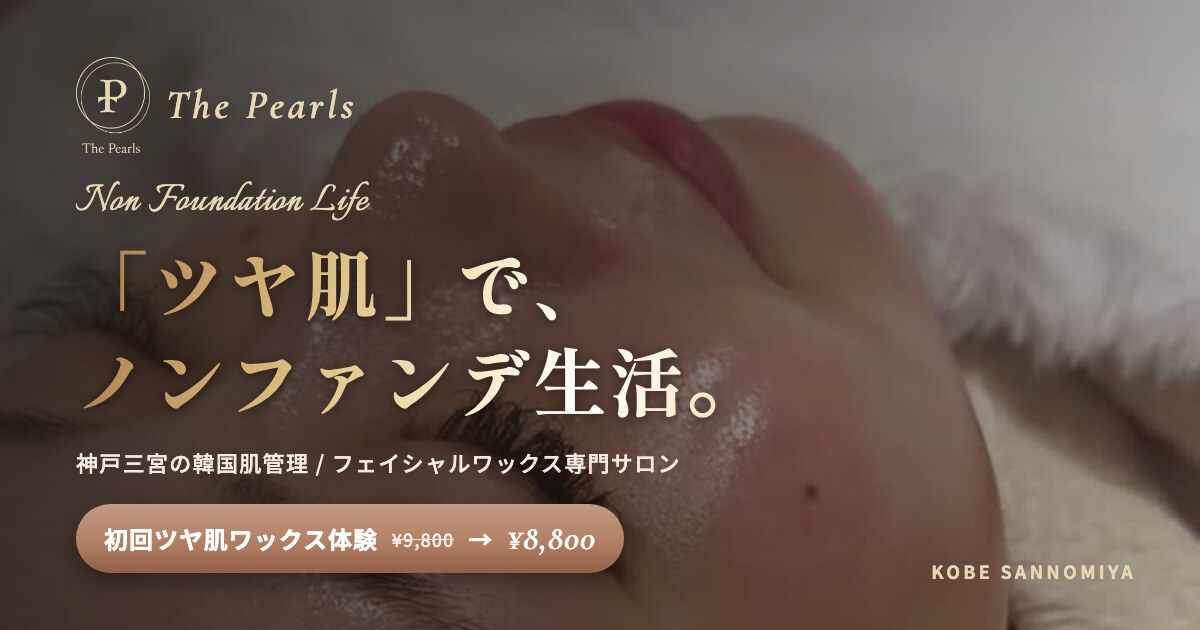
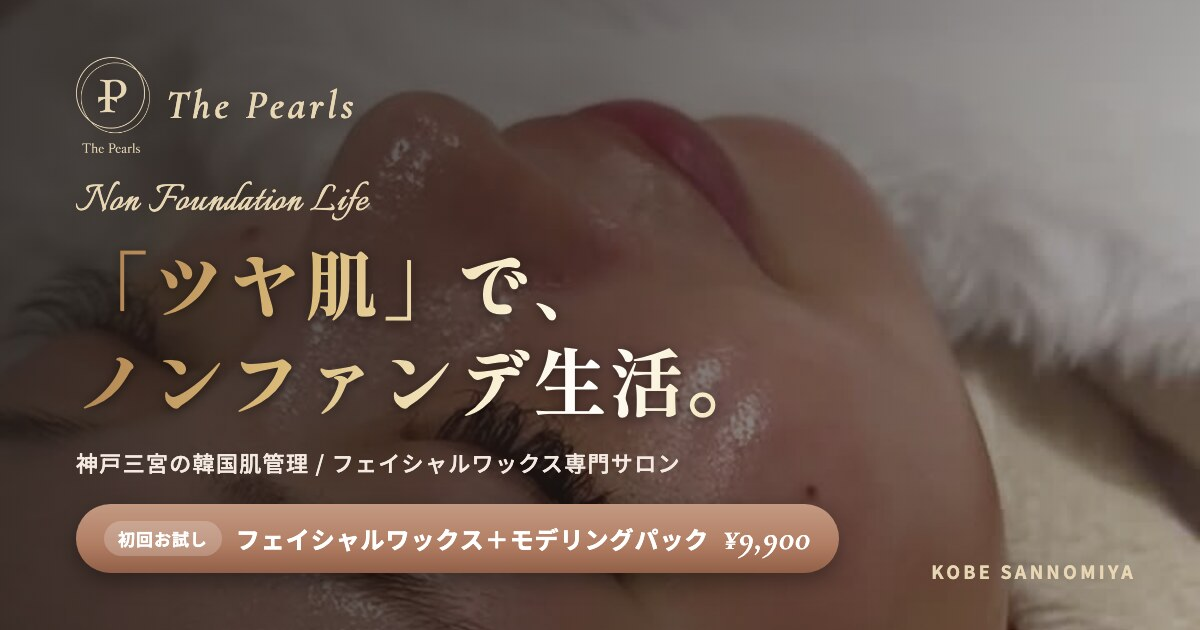
オファーをモデリングパック¥9,900化・専門/徒歩をtopbarへ・実口コミ+実写顔・正方形バナー
- ヒーローのカテゴリーカード削除、上部バナー(topbar)に「韓国肌管理／フェイシャルワックス専門・三ノ宮駅徒歩5分・女性専用」を集約
- ヒーロー/料金/ドック/クロージング/メタのオファーを HotPepper実クーポン「フェイシャルワックス＋モデリングパック 初回お試し¥9,900」に統一
- メニュー価格をHotPepper実価格に: ツヤ肌ワックス(＋モデリングパック)¥9,900 / クリスティーナハーブ初回¥9,900(通常¥16,500) / W＋白玉酸素初回¥13,200(通常¥18,700)
- 口コミを本物3件(ぴろ/M/khr さん・HotPepper実口コミ抜粋)に差し替え、顔写真をAIっぽくないリアルな実写風3枚(face1-3)に。写真はイメージ注記を追記
- 選ばれる理由 No.3(マッサージ付→リラックス施術 i03)・No.4(ずっと綺麗→満足げツヤ肌 i22)を適切な写真に差し替え
- OG画像を新オファーで再生成。SNS/広告用 正方形1080x1080バナー square_ad.jpg を別途用意(エージェント生成)
- 不要になったvoice1-3.png/r_logo.png 整理

Changed region(s): [[0.0617, 0.7841, 0.7092, 0.9349]]

diff --git a/index.html b/index.html
@@ -3,9 +3,9 @@
 <head>
 <meta charset="UTF-8">
 <meta name="viewport" content="width=device-width, initial-scale=1.0">
-<title>The Pearls｜神戸三宮の韓国肌管理・フェイシャルワックス｜初回体験8,800円</title>
-<meta name="description" content="神戸三宮の韓国肌管理・フェイシャルワックス専門サロン「The Pearls（ザ パールズ）」。毛穴・くすみ・乾燥・ごわつきに、素肌から透明感を。初回ツヤ肌ワックス体験 通常9,800円→8,800円。JR・阪急三ノ宮駅 徒歩5分。ネット予約24時間受付。">
-<meta property="og:title" content="The Pearls｜神戸三宮の韓国肌管理サロン｜初回ツヤ肌ワックス体験8,800円">
+<title>The Pearls｜神戸三宮の韓国肌管理・フェイシャルワックス専門｜初回お試し9,900円</title>
+<meta name="description" content="神戸三宮の韓国肌管理・フェイシャルワックス専門サロン「The Pearls（ザ パールズ）」。「ツヤ肌」で、ノンファンデ生活。初回お試しフェイシャルワックス＋モデリングパック9,900円（税込）。JR・阪急 三ノ宮駅 徒歩5分・女性専用・24時間ネット予約。">
+<meta property="og:title" content="The Pearls｜神戸三宮の韓国肌管理・フェイシャルワックス専門｜初回お試し9,900円">
 <meta property="og:description" content="毛穴・くすみ・乾燥に、韓国肌管理で“素肌から変わる”。無理な勧誘なし・都度払いOK。三ノ宮駅徒歩5分。">
 <meta property="og:type" content="website">
 <meta property="og:url" content="https://thepearls-lp.pages.dev/">
@@ -13,7 +13,7 @@
 <meta property="og:image:width" content="1200">
 <meta property="og:image:height" content="630">
 <meta name="twitter:card" content="summary_large_image">
-<meta name="twitter:title" content="The Pearls｜神戸三宮の韓国肌管理サロン｜初回ツヤ肌ワックス体験8,800円">
+<meta name="twitter:title" content="The Pearls｜神戸三宮の韓国肌管理・フェイシャルワックス専門｜初回お試し9,900円">
 <meta name="twitter:description" content="「ツヤ肌」で、ノンファンデ生活。毛穴・くすみ・乾燥に、韓国肌管理で素肌から。無理な勧誘なし・都度払いOK。三ノ宮駅徒歩5分。">
 <meta name="twitter:image" content="https://thepearls-lp.pages.dev/images/og.jpg">
 <link rel="icon" type="image/png" href="images/favicon.png">
@@ -63,10 +63,10 @@
   .topbar{position:sticky;top:0;z-index:60;max-width:var(--maxw);margin:0 auto;
     background:linear-gradient(100deg,var(--ink) 0%,#4a3b32 100%);color:#fff;display:flex;align-items:center;justify-content:space-between;
     padding:9px 16px;gap:10px;border-bottom:1px solid rgba(191,161,104,.5);}
-  .topbar .tb-l{font-family:var(--font-en);font-style:italic;font-size:18px;letter-spacing:.14em;color:var(--gold-soft);line-height:1}
-  .topbar .tb-r{font-size:11px;font-weight:500;letter-spacing:.04em;text-align:right;line-height:1.35}
-  .topbar .tb-r b{color:#fff;font-size:13px}
-  .topbar .tb-r .y{color:var(--gold-soft)}
+  .topbar .tb-l{font-family:var(--font-en);font-style:italic;font-size:17px;letter-spacing:.12em;color:var(--gold-soft);line-height:1;flex:0 0 auto}
+  .topbar .tb-r{font-size:10px;font-weight:500;letter-spacing:.02em;text-align:right;line-height:1.45}
+  .topbar .tb-r b{color:#fff;font-weight:700}
+  .topbar .tb-r .y{color:var(--gold-soft);font-weight:700}
 
   /* headings */
   .eyebrow{font-family:var(--font-en);font-style:italic;font-weight:500;letter-spacing:.18em;color:var(--primary);font-size:15px;display:inline-block}
@@ -92,9 +92,7 @@
   .hero-logo{width:90px;height:auto;margin:0 auto;display:block;filter:drop-shadow(0 2px 10px rgba(0,0,0,.4))}
   .hero-script{font-family:"Italianno",cursive;font-size:30px;line-height:1;color:var(--gold-soft);margin-top:10px;letter-spacing:.02em;text-shadow:0 2px 12px rgba(0,0,0,.45)}
   .hero-loc{font-family:var(--font-b);font-weight:600;font-size:9.5px;letter-spacing:.4em;color:#e7d6b4;margin-top:6px}
-  .hero-cat{display:inline-block;margin-top:14px;font-size:10.5px;font-weight:700;letter-spacing:.16em;color:#fff;
-    background:linear-gradient(100deg,var(--primary) 0%,var(--primary-dark) 100%);padding:6px 15px;border-radius:30px;box-shadow:var(--shadow-sm)}
-  .hero-h{position:relative;margin-top:14px;font-family:var(--font-h);font-weight:800;letter-spacing:.05em;
+  .hero-h{position:relative;margin-top:18px;font-family:var(--font-h);font-weight:800;letter-spacing:.05em;
     font-size:28px;line-height:1.5;
     background:linear-gradient(105deg,#A9794A 0%,#D9B978 20%,#F7ECCB 38%,#FFFFFF 50%,#F7ECCB 62%,#D9B978 80%,#A9794A 100%);
     background-size:220% 100%;-webkit-background-clip:text;background-clip:text;color:transparent;-webkit-text-fill-color:transparent;
@@ -343,7 +341,7 @@
   <!-- STICKY OFFER BAR -->
   <div class="topbar">
     <div class="tb-l">The Pearls</div>
-    <div class="tb-r">初回ツヤ肌ワックス体験 <b class="y">¥8,800</b><br>神戸三宮・韓国肌管理</div>
+    <div class="tb-r"><b>韓国肌管理／フェイシャルワックス<span class="y">専門</span></b><br>JR・阪急 三ノ宮駅 徒歩5分／女性専用</div>
   </div>
 
   <!-- HERO -->
@@ -359,14 +357,13 @@
       <img class="hero-logo" src="images/r_logo_gold.png" alt="The Pearls">
       <div class="hero-script">Non Foundation Life</div>
       <div class="hero-loc">KOBE SANNOMIYA ・ KOREAN SKIN CARE</div>
-      <span class="hero-cat">韓国肌管理 / フェイシャルワックス専門</span>
       <h1 class="hero-h"><span class="big">“ツヤ肌”</span>で、<br>ノンファンデ生活を<br>あたりまえに。</h1>
       <p class="hero-tag">ファンデで隠す毎日を、卒業。<br>“素顔がいちばん綺麗”を、あなたにも。</p>
     </div>
     <div class="hero-bottom">
       <div class="hero-offer">
-        <div class="ho-line"><span class="ho-tag">初回限定</span>顔のツヤ肌ワックス 体験</div>
-        <div class="ho-price"><span class="was">通常¥9,800</span><span class="arr">▶</span><b>8,800</b><span class="yen">円</span><small>税込</small></div>
+        <div class="ho-line"><span class="ho-tag">初回お試し</span>フェイシャルワックス＋<br>モデリングパック</div>
+        <div class="ho-price"><b>9,900</b><span class="yen">円</span><small>税込</small></div>
         <div class="ho-trust">肩・ヘッドマッサージ付／無理な勧誘なし・都度払いOK</div>
       </div>
     </div>
@@ -460,7 +457,7 @@
       <h3>顔のツヤ肌ワックス</h3>
       <div class="men">Facial Wax</div>
       <p>専用ワックスでうぶ毛と古い角質を一度にオフ。施術直後から、思わず触れたくなる<b style="color:#fff">ツヤツヤのツヤ肌</b>へ。化粧ノリも、肌のトーンも一段明るく。</p>
-      <div class="mprice"><span class="lb">初回体験（通常¥9,800）</span><span class="pp"><span class="yen">¥</span>8,800</span></div>
+      <div class="mprice"><span class="lb">初回お試し（＋モデリングパック）</span><span class="pp"><span class="yen">¥</span>9,900</span></div>
     </div>
   </section>
   <section class="menuband" style="background-image:url('images/r_menu_herb.jpg')">
@@ -469,7 +466,7 @@
       <h3>ハーブピーリング</h3>
       <div class="men">Herb Peeling</div>
       <p>天然ハーブの力で肌の生まれ変わりを促進。毛穴・ニキビ跡・ハリ不足にアプローチし、内側から押し上げるような<b style="color:#fff">なめらかな肌</b>へ。</p>
-      <div class="mprice"><span class="lb">初回クーポン例</span><span class="pp"><span class="yen">¥</span>9,900〜</span></div>
+      <div class="mprice"><span class="lb">初回クリスティーナ（通常¥16,500）</span><span class="pp"><span class="yen">¥</span>9,900</span></div>
     </div>
   </section>
   <section class="menuband" style="background-image:url('images/r_menu_oxygen.jpg')">
@@ -478,7 +475,7 @@
       <h3>韓国 白玉酸素セラピー</h3>
       <div class="men">White Oxygen Therapy</div>
       <p>高濃度の酸素と美容液を肌の奥へ届け、くすみを払って<b style="color:#fff">白玉のような透明感</b>へ。ワックスとの組み合わせが人気です。</p>
-      <div class="mprice"><span class="lb">セット体験例</span><span class="pp"><span class="yen">¥</span>13,200〜</span></div>
+      <div class="mprice"><span class="lb">初回 W＋白玉酸素（通常¥18,700）</span><span class="pp"><span class="yen">¥</span>13,200</span></div>
     </div>
   </section>
   <section class="blk pearl" style="padding-top:26px">
@@ -543,30 +540,30 @@
         <h2 class="sec-h">SNSでも広がる、<br>うれしい変化</h2>
       </div>
       <div class="voice rv">
-        <img class="vface" src="images/voice1.png" alt="お客様の声 M.Kさん">
+        <img class="vface" src="images/face1.jpg" alt="お客様の声 ぴろさん">
         <div class="vbody">
-          <div class="vhead"><b>M.K さん</b><span>20代・会社員</span><span class="vstar">★★★★★</span></div>
-          <div class="vt">施術後、肌が自分のじゃないみたい</div>
-          <p>ワックスのあと、頬を触ったらツルツルで感動しました。次の日のメイクのりが全然違って、ファンデが少なくて済むように。カウンセリングも丁寧で安心でした。</p>
+          <div class="vhead"><b>ぴろ さん</b><span>20代・女性</span><span class="vstar">★★★★★</span></div>
+          <div class="vt">肌がふわふわ、見た目はツヤツヤに</div>
+          <p>フェイシャルWAXとハーブピーリングは、うぶ毛と古い角質が取れて肌が柔らかくふわふわに。見た目はツヤツヤになりました。大満足です！</p>
         </div>
       </div>
       <div class="voice rv">
-        <img class="vface" src="images/voice2.png" alt="お客様の声 A.Sさん">
+        <img class="vface" src="images/face2.jpg" alt="お客様の声 Mさん">
         <div class="vbody">
-          <div class="vhead"><b>A.S さん</b><span>30代・ブライダル前</span><span class="vstar">★★★★★</span></div>
-          <div class="vt">結婚式前に通って大正解</div>
-          <p>くすみが気になっていましたが、回を重ねるごとに透明感が出てきました。痛みも声をかけてくださるので不安なし。式当日、肌を褒められて本当に嬉しかったです。</p>
+          <div class="vhead"><b>M さん</b><span>20代前半・女性</span><span class="vstar">★★★★★</span></div>
+          <div class="vt">1回目から大満足の仕上がり</div>
+          <p>ハーブピーリングと毛穴洗浄のプランを初めて選びましたが、1回目から大満足の仕上がりです！終了後からお肌がピカピカになり、効果を実感できました。</p>
         </div>
       </div>
       <div class="voice rv">
-        <img class="vface" src="images/voice3.png" alt="お客様の声 Y.Tさん">
+        <img class="vface" src="images/face3.jpg" alt="お客様の声 khrさん">
         <div class="vbody">
-          <div class="vhead"><b>Y.T さん</b><span>40代・主婦</span><span class="vstar">★★★★★</span></div>
-          <div class="vt">勧誘がないから通いやすい</div>
-          <p>エステ初心者で緊張していましたが、無理な勧誘がまったくなくて拍子抜け。都度払いで自分のペースで通えます。店内も清潔で、毎回癒やされています。</p>
+          <div class="vhead"><b>khr さん</b><span>10代後半・女性</span><span class="vstar">★★★★★</span></div>
+          <div class="vt">荒れていた肌がツルスベに</div>
+          <p>他のお店でフェイシャルワックスをした時は赤みや肌荒れがすごかったのですが、The Pearlsさんではツルスベの肌になれました！</p>
         </div>
       </div>
-      <p class="lead center rv" style="font-size:12px;margin-top:14px">※個人の感想であり、効果には個人差があります。</p>
+      <p class="lead center rv" style="font-size:12px;margin-top:14px">※ホットペッパービューティーに寄せられた口コミより抜粋。写真はイメージです。効果には個人差があります。</p>
     </div>
   </section>
 
@@ -579,20 +576,19 @@
         <h2 class="sec-h">まずは、この一回で<br>“ツヤ肌”を体感して。</h2>
       </div>
       <div class="price-box rv">
-        <span class="price-ribbon">初めての方限定クーポン</span>
-        <div class="price-name">顔のツヤ肌ワックス 体験</div>
+        <span class="price-ribbon">初回お試し限定</span>
+        <div class="price-name">フェイシャルワックス<br>＋モデリングパック</div>
         <div class="price-row">
-          <div class="was"><div class="wl">通常価格</div><div class="wv">¥9,800</div></div>
-          <div class="arr">▶</div>
-          <div class="now"><div class="nl">初回限定</div><div class="nv"><span class="num">8,800</span><span class="yen">円</span></div><div class="tax">税込</div></div>
+          <div class="now"><div class="nl">初回お試し価格</div><div class="nv"><span class="num">9,900</span><span class="yen">円</span></div><div class="tax">税込</div></div>
         </div>
         <div class="price-incl">
           <div class="pi-t">体験に含まれるもの</div>
           <ul>
             <li><svg viewBox="0 0 24 24" fill="none" stroke-width="3" stroke-linecap="round" stroke-linejoin="round"><path d="M20 6L9 17l-5-5"/></svg>カウンセリング＆肌診断</li>
-            <li><svg viewBox="0 0 24 24" fill="none" stroke-width="3" stroke-linecap="round" stroke-linejoin="round"><path d="M20 6L9 17l-5-5"/></svg>顔のツヤ肌ワックス施術</li>
+            <li><svg viewBox="0 0 24 24" fill="none" stroke-width="3" stroke-linecap="round" stroke-linejoin="round"><path d="M20 6L9 17l-5-5"/></svg>フェイシャルワックス（うぶ毛・古い角質オフ）</li>
+            <li><svg viewBox="0 0 24 24" fill="none" stroke-width="3" stroke-linecap="round" stroke-linejoin="round"><path d="M20 6L9 17l-5-5"/></svg>モデリングパック</li>
             <li><svg viewBox="0 0 24 24" fill="none" stroke-width="3" stroke-linecap="round" stroke-linejoin="round"><path d="M20 6L9 17l-5-5"/></svg>肩・ヘッドマッサージ</li>
-            <li><svg viewBox="0 0 24 24" fill="none" stroke-width="3" stroke-linecap="round" stroke-linejoin="round"><path d="M20 6L9 17l-5-5"/></svg>ホームケア・スキンケアのアドバイス</li>
+            <li><svg viewBox="0 0 24 24" fill="none" stroke-width="3" stroke-linecap="round" stroke-linejoin="round"><path d="M20 6L9 17l-5-5"/></svg>ホームケアのアドバイス</li>
           </ul>
         </div>
         <div class="price-limit">完全予約制・お席に限りがございます</div>
@@ -701,7 +697,7 @@
       <p class="cp">「もっと早く来ればよかった」——そう言っていただけるように。<br>あなたの“ツヤ肌”が続く第一歩を、The Pearlsで。</p>
       <a class="cta-book" style="margin-top:22px" href="https://beauty.hotpepper.jp/CSP/kr/reserve/?storeId=H000706469" target="_blank" rel="noopener">
         <svg class="ic" viewBox="0 0 24 24" stroke-width="2" stroke-linecap="round" stroke-linejoin="round"><rect x="3" y="4" width="18" height="18" rx="2"/><path d="M16 2v4M8 2v4M3 10h18"/></svg>
-        <span>初回¥8,800の体験を予約する<small>ホットペッパー・24時間ネット予約</small></span>
+        <span>初回お試し¥9,900を予約する<small>ホットペッパー・24時間ネット予約</small></span>
       </a>
       <a class="cta-line" href="https://line.me/R/ti/p/@380whsqu" target="_blank" rel="noopener" style="border-color:rgba(255,255,255,.6);background:rgba(255,255,255,.95)">
         <svg class="ic" viewBox="0 0 24 24"><path d="M12 2C6.5 2 2 5.7 2 10.2c0 4 3.6 7.4 8.5 8.1.3.07.8.2.9.5.08.27.05.7.03.97l-.14.86c-.04.27-.2 1.05.92.57s6.04-3.56 8.24-6.1C21.4 13.5 22 11.9 22 10.2 22 5.7 17.5 2 12 2z"/></svg>
@@ -726,7 +722,7 @@
   <!-- FIXED BOTTOM DOCK -->
   <div class="dock">
     <div class="dock-in">
-      <div class="dock-price"><div class="dl">初回体験</div><div class="dv"><span class="yen">¥</span>8,800</div></div>
+      <div class="dock-price"><div class="dl">初回お試し</div><div class="dv"><span class="yen">¥</span>9,900</div></div>
       <a class="dbook" href="https://beauty.hotpepper.jp/CSP/kr/reserve/?storeId=H000706469" target="_blank" rel="noopener">
         <svg class="ic" viewBox="0 0 24 24" stroke-width="2" stroke-linecap="round" stroke-linejoin="round"><rect x="3" y="4" width="18" height="18" rx="2"/><path d="M16 2v4M8 2v4M3 10h18"/></svg>
         ネットで予約する